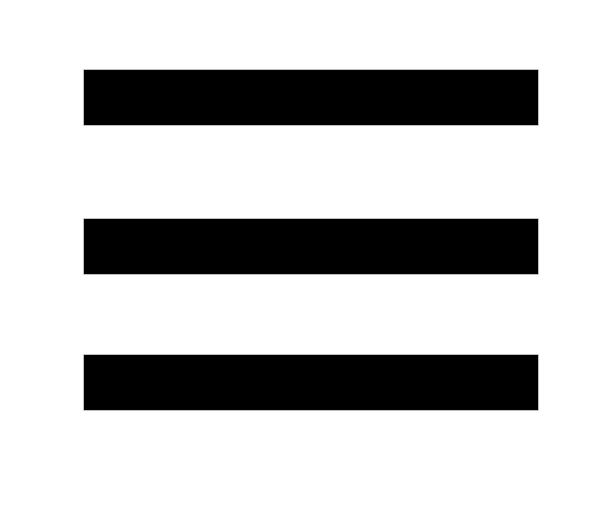
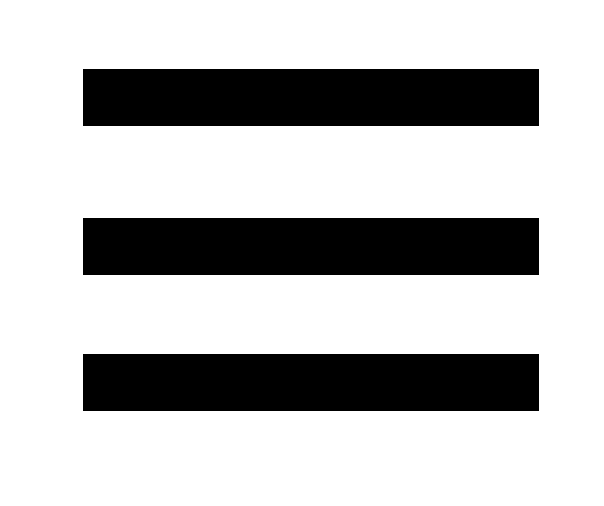
nav bar menu buttom change colour

diff --git a/index.html b/index.html
@@ -7,6 +7,7 @@
 	<link rel="preconnect" href="https://fonts.gstatic.com" crossorigin>
 	<link href="https://fonts.googleapis.com/css2?family=Azeret+Mono:ital,wght@0,100..900;1,100..900&display=swap" rel="stylesheet">
 	<link rel="stylesheet" href="style.css" />
+	<link rel="stylesheet" href="about.css" />
 	<script src="script.js"></script>
 	<title> Evan Tong Portfolio </title>
 </head>
@@ -29,9 +30,14 @@
 			<li><a href="missing-media.html" class="nav-item">contect</a></li>
 		</ul>
 
-		<a href="javascript:void(0);" onclick="myFunction()" class="nav-button">
-			<img src="assets/Nav-button.png" style="width: 60px; height: 55px;">
-		</a>
+		<div class="nav-button">
+			<a href="javascript:void(0);" onclick="myFunction()" id="nav-button-closed">
+				<img src="assets/Nav-button.png" style="width: 60px; height: 55px;">
+			</a>
+			<a href="javascript:void(0);" onclick="myFunction()" id="nav-button-open">
+				<img src="assets/Nav-button-open.png" style="width: 60px; height: 55px;" >
+			</a>
+		</div>
 
 		<div id="items">
 			<ul class="nav-menu Azeret-Mono">

diff --git a/script.js b/script.js
@@ -1,11 +1,17 @@
-
-
 function myFunction(){
   var x = document.getElementById("items");
+  var y = document.getElementById("nav-button-open");
+  var z = document.getElementById("nav-button-closed");
+
   if (x.style.display === "block") {
     x.style.display = "none";
+    z.style.display = "block";
+    y.style.display = "none";
+
   } else {
     x.style.display = "block";
+    z.style.display = "none";
+    y.style.display = "block";
   }
 }
 

diff --git a/style.css b/style.css
@@ -127,6 +127,10 @@ body{
         z-index: 101;
     }
 
+    #nav-button-open{
+        display: none;
+    }
+
     #items{
         position: absolute;
         right: 0;
